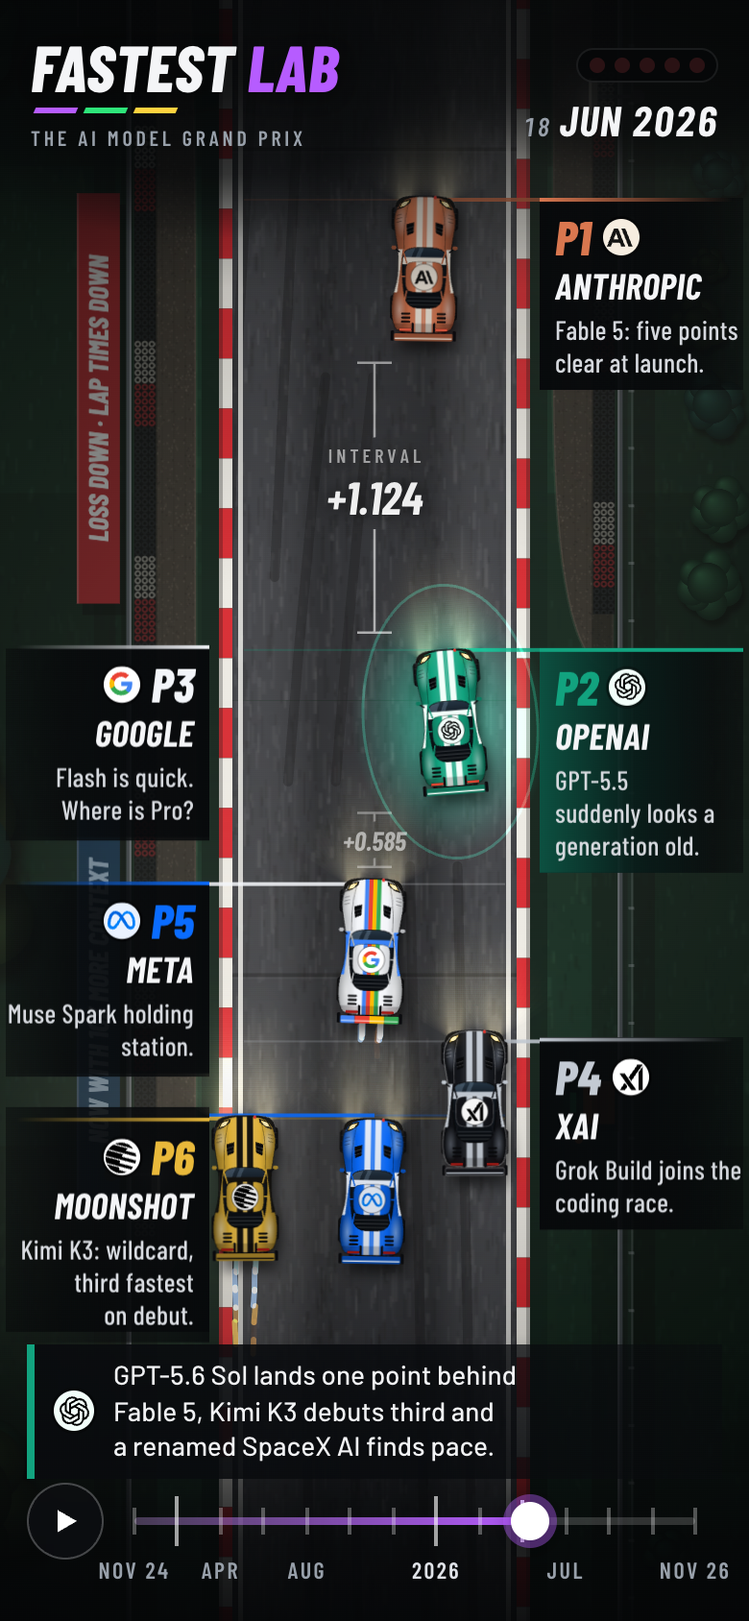
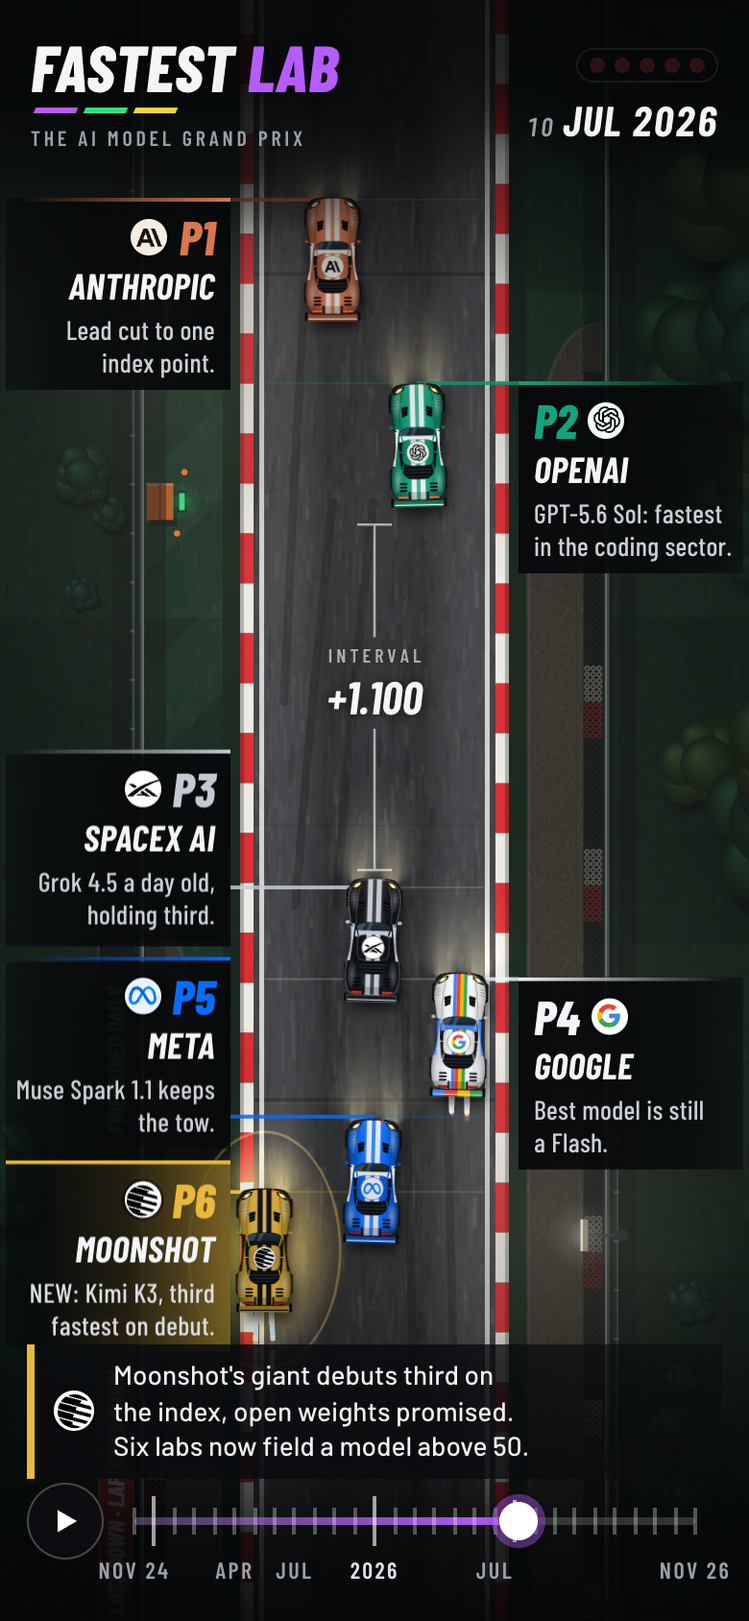
Replay the two years as 29 events (research/events.txt)
The SNAPSHOTS table is now ../research/events.txt, pasted in verbatim: an
opening state, 27 model releases, and the owner's closing standings, each
with its @lab and caption. Sources are in ../research/events.md. The
closing standings (2026-11-20) are unchanged.

A full replay is now about 83 s (28 steps of 2.5 to 3.0 s, plus lights
and launch).

Cars are about 20% smaller than with the quarterly snapshots (70 px long
at 1440x900, 64 px at 390x844): the 2025-07-09 entry packs four cars into
0.50 s, and the tightest four-car pack on the timeline sets the car size.
Noted in .memory/MEMORY.md together with the one-number fix.

Verified in headless Chrome with index.html alone, 1440x900 and 390x844,
every frame of a full replay, hard scrubbing and replays cut short:
0 console errors, 0 overlaps of the rotated car boxes, 3 abreast at most,
least clearance 7.8 px / 6.8 px (0.11 car lengths), 60 fps. The drive plan
is clean at nine screen sizes. Screenshots refreshed.

diff --git a/index.html b/index.html
@@ -273,104 +273,175 @@
 
 var SNAPSHOTS = `
 
-# Two years of standings, November 2024 to November 2026. The reasoning and
-# the sources behind every snapshot are in research/standings-history.md.
+# FASTEST LAB · the replay as events, November 2024 to November 2026.
+# Drop-in replacement for the SNAPSHOTS text table (paste between the backticks).
+# The reasoning and sources for every event are in research/events.md.
+#
+# Same format as the snapshot table, plus two additions for the v2 page:
+#   @lab at the end of a date line   the lab whose event this is (car to highlight)
+#   > caption                        one line: what happened and why it moved the field
+#
+# 29 entries: an opening state, 27 events, and the owner's closing standings.
 # Scale: +0.25 is wheel to wheel, +1.00 a clear lead, +1.70 a big break.
+# Every date is unique on purpose: the page skips a second entry on the same date.
 #
-# Guest cars: an outsider lab drives for as long as it was genuinely top
-# five. DeepSeek (R1) runs February to June 2025, Moonshot (Kimi K3) July
-# to September 2026. Each took its place inside an existing gap, so the
-# cars around it are exactly as far from the leader as the research says.
-#
-# The @lab and the > caption on each snapshot are placeholders, written from
-# the headlines, until the event-by-event replay replaces this table.
+# Guest cars: DeepSeek drives from R1 (Jan 2025) until GPT-5 (Aug 2025);
+# Moonshot from Kimi K3 (Jul 2026) until Gemini 4 Argon (Sep 2026).
 
-# o1-preview era; Claude 3.5 Sonnet (new) is the coders' pick; Gemini still experimental
+# Opening state. o1-preview, Claude 3.5 Sonnet (new), experimental Geminis, Llama 3.2, Grok 2
 2024-11-20  OpenAI's race to lose
   > Where it stood: o1-preview on pole, Claude 3.5 Sonnet the coders' pick, Gemini still experimental.
-  openai                o1 on pole, the field regrouping.
+  openai                o1-preview on pole, the field regrouping.
   anthropic   +0.40     The coders' car of choice.
   google      +0.45     Experimental Geminis trading fastest laps.
   meta        +1.30     Best of the open-weights class.
   spacexai    +0.35     Grok 2: still learning the circuit.
 
-# DeepSeek R1 (Jan 20), Grok 3 (Feb 17), Claude 3.7 Sonnet + Claude Code (Feb 24), GPT-4.5 (Feb 27)
-2025-02-28  Grok 3 gatecrashes the front  @spacexai
-  > Grok 3 is the first model past 1400 on LMArena. DeepSeek's R1 and Claude 3.7 Sonnet land the same winter.
-  openai                Deep Research, o3-mini, GPT-4.5. Still ahead.
+# DeepSeek R1 (Jan 20). Since the opening: o1 and o1 pro (Dec 5), o3 preview (Dec 20), Gemini 2.0 Flash (Dec 11)
+2025-01-20  DeepSeek shocks the paddock  @deepseek
+  > R1 matches o1 for pennies. Within a week it tops the App Store and Nvidia drops 17%.
+  openai                o1 pro out, o3 previewed. Lead grows.
+  anthropic   +0.50     Still on 3.5 Sonnet. No reasoning model.
+  google      +0.30     Gemini 2.0 Flash: quick and cheap.
+  deepseek    +0.25     NEW: R1, o1-level, open weights.
+  meta        +1.15     Llama 3.3. No longer the open-weights king.
+  spacexai    +0.35     Grok 2, waiting on Grok 3.
+
+# Grok 3 (Feb 17). Also since R1: o3-mini (Jan 31), Deep Research (Feb 2), Gemini 2.0 Pro (Feb 5)
+2025-02-17  Grok 3 gatecrashes the front  @spacexai
+  > First model past 1400 on LMArena. xAI goes from last to Google's gearbox in one release.
+  openai                o3-mini and Deep Research. Still ahead.
+  anthropic   +0.55     Sonnet 3.5 showing its age.
+  google      +0.15     Gemini 2.0 Pro: quick, not quickest.
+  spacexai    +0.15     Grok 3 comes from nowhere.
+  deepseek    +0.35     R1: still the paddock's talking point.
+  meta        +1.30     Passed by two cars in a month.
+
+# Claude 3.7 Sonnet + Claude Code research preview (Feb 24). GPT-4.5 follows on Feb 27
+2025-02-24  Claude 3.7 brings Claude Code  @anthropic
+  > The first hybrid reasoning model, plus a terminal agent nobody yet knows will matter this much.
+  openai                Lead intact. GPT-4.5 lands in three days.
   anthropic   +0.35     Sonnet 3.7 arrives with Claude Code.
   google      +0.30     Gemini 2.0: quick, not quickest.
-  spacexai    +0.15     Grok 3 comes from nowhere.
-  deepseek    +0.40     Wildcard R1 knocks 17% off Nvidia in a day.
-  meta        +1.30     Overtaken by wildcard entry DeepSeek.
+  spacexai    +0.15     Grok 3, one week old and holding.
+  deepseek    +0.40     R1 still ahead of every Llama.
+  meta        +1.30     Llama 3.3. Llama 4 promised.
 
-# Gemini 2.5 Pro (Mar 25) debuts #1 on LMArena by ~40 points; Llama 4 (Apr 5) benchmark row; o3 lands Apr 16
-2025-04-10  Gemini 2.5 takes pole  @google
+# Gemini 2.5 Pro Experimental (Mar 25); GPT-4o image generation ships the same day
+2025-03-25  Gemini 2.5 takes pole  @google
   > Gemini 2.5 Pro debuts 40 Elo clear on LMArena. Google's first undisputed best model.
   google                Gemini 2.5 Pro. Forty Elo clear.
-  openai      +0.20     Ghibli goes viral; o3 still garaged.
+  openai      +0.20     Ghibli images go viral. o3 still garaged.
   anthropic   +0.30     Sonnet 3.7 keeps the coders loyal.
   spacexai    +0.45     Grok 3 hangs on to the pack.
-  deepseek    +0.70     No upgrades, still quicker than Llama 4.
+  deepseek    +0.65     No upgrades since January.
+  meta        +1.00     Llama 4 is days away.
+
+# Llama 4 Scout and Maverick (Apr 5) and the LMArena "experimental version" row
+2025-04-05  Llama 4 stumbles  @meta
+  > Meta's Arena score came from an unreleased tuned variant. The public Llama 4 ranks 32nd.
+  google                Gemini 2.5 Pro still on pole.
+  openai      +0.20     o3 eleven days out.
+  anthropic   +0.30     Sonnet 3.7 and Claude Code.
+  spacexai    +0.45     Grok 3 holding fourth.
+  deepseek    +0.70     Still quicker than Llama 4.
   meta        +1.20     Llama 4: stewards reviewing those benchmarks.
 
-# o3 / o3-pro, Gemini 2.5 Pro + Veo 3 at I/O, Claude 4 (May 22), R1 refresh (May 28); Meta delays Behemoth
-2025-06-10  Three abreast into summer  @anthropic
-  > Claude 4 tops the coding benchmarks, o3-pro ships, Google I/O adds Veo 3. Three abreast at the front.
-  openai                o3-pro, by a front wing.
+# o3 and o4-mini (Apr 16)
+2025-04-16  o3 puts OpenAI back in front  @openai
+  > o3 and o4-mini ship four months after the preview. Reasoning models that use tools retake the lead.
+  openai                o3 and o4-mini: back in front.
+  google      +0.15     2.5 Pro loses pole, not pace.
+  anthropic   +0.35     Waiting on Claude 4.
+  spacexai    +0.50     Grok 3 starts to fade.
+  deepseek    +0.60     R1 at three months old.
+  meta        +1.30     Behemoth nowhere to be seen.
+
+# Claude Opus 4 and Sonnet 4, Claude Code GA (May 22). Google I/O two days earlier: 2.5 Pro, Veo 3
+2025-05-22  Claude 4: three abreast  @anthropic
+  > Opus 4 and Sonnet 4 lead SWE-bench; Claude Code goes GA. Three abreast at the front.
+  openai                o3 ahead by a front wing.
   google      +0.15     I/O upgrades: 2.5 Pro and Veo 3.
   anthropic   +0.15     Claude 4 tops the coding sector.
   spacexai    +0.90     Waiting on the Grok 4 upgrade.
   deepseek    +0.55     A one-car team, still in the points.
   meta        +1.35     Behemoth delayed. Chequebook out.
 
-# Grok 4 (Jul 9) tops the AA index for a month; GPT-5 (Aug 7) takes it back despite a rough launch
-2025-08-10  GPT-5: bumpy but ahead  @openai
-  > GPT-5 takes the top spot back from Grok 4, then a user revolt over retired models forces a partial retreat.
+# Grok 4 and Grok 4 Heavy (Jul 9): 73 on Artificial Analysis, ahead of o3-pro (71) and Gemini 2.5 Pro (70)
+2025-07-09  Grok 4 tops the index  @spacexai
+  > Grok 4 scores 73 on Artificial Analysis, ahead of o3 and Gemini 2.5 Pro. xAI's first time on top.
+  openai                o3-pro leads on breadth, not benchmarks.
+  google      +0.15     2.5 Pro: level with o3.
+  anthropic   +0.15     Opus 4: behind on index, ahead on code.
+  spacexai    +0.20     Grok 4: fastest single lap in the field.
+  deepseek    +1.20     R1 refresh can't hold this pace.
+  meta        +1.50     Signing drivers, not setting laps.
+
+# GPT-5 (Aug 7). Two days earlier: Claude Opus 4.1 and Genie 3. DeepSeek leaves the track here
+2025-08-07  GPT-5: bumpy but ahead  @openai
+  > GPT-5 retakes the top spot, then a user revolt over retired models forces a partial retreat.
   openai                Rough launch, still fastest.
   anthropic   +0.30     Opus 4.1 and a Claude Code boom.
   google      +0.10     Genie 3 dazzles; 2.5 Pro ages.
-  spacexai    +0.25     Grok 4 led the index in July.
-  meta        +2.60     Signing drivers, not setting laps.
+  spacexai    +0.25     Grok 4 led the index for a month.
+  meta        +2.60     Superintelligence lab founded, nothing shipped.
 
-# Claude Sonnet 4.5 (Sep 29), Sora 2 (Sep 30), Nano Banana (Aug 26)
-2025-10-01  The coding war  @anthropic
-  > Claude Sonnet 4.5 hits 77% on SWE-bench Verified, a day before Sora 2. The fight is now about coding agents.
-  openai                GPT-5 on top; Sora 2 lands.
-  anthropic   +0.20     Sonnet 4.5: 77% on SWE-bench.
-  google      +0.25     Nano Banana wins the crowd.
-  spacexai    +0.50     Fast and cheap, drifting back.
-  meta        +2.60     Still in the garage.
-
-# Gemini 3 Pro (Nov 18), Claude Opus 4.5 (Nov 24), OpenAI "code red" memo (Dec 2)
-2025-12-03  Code red at OpenAI  @google
-  > Gemini 3 Pro sweeps the leaderboards, Opus 4.5 passes 80% on SWE-bench, and OpenAI declares a code red.
+# Gemini 3 Pro (Nov 18). Since GPT-5: Sonnet 4.5 (Sep 29), Sora 2 (Sep 30), GPT-5.1 (Nov 12), Grok 4.1 (Nov 17)
+2025-11-18  Gemini 3 takes pole  @google
+  > Gemini 3 Pro debuts three points clear on the index and sweeps LMArena. Google leads again.
   google                Gemini 3 Pro tops the timing screens.
+  openai      +0.30     GPT-5.1, a week old, already passed.
+  anthropic   +0.15     Sonnet 4.5 strong on code. Opus due.
+  spacexai    +0.75     Grok 4.1 can't follow the leaders.
+  meta        +2.40     Seven months since Llama 4.
+
+# Claude Opus 4.5 (Nov 24). OpenAI's "code red" memo follows on Dec 2
+2025-11-24  Opus 4.5 answers in six days  @anthropic
+  > First model past 80% on SWE-bench Verified. Eight days later OpenAI declares a code red.
+  google                Gemini 3 Pro and Nano Banana Pro.
   anthropic   +0.20     Opus 4.5 breaks 80% on SWE-bench.
-  openai      +0.20     Code red on the pit wall.
-  spacexai    +0.90     Grok 4.1 can't follow the leaders.
+  openai      +0.20     Third for the first time. Code red follows.
+  spacexai    +0.90     Grok 4.1 losing touch.
   meta        +2.40     LeCun leaves the team.
 
-# Claude Code's holiday breakout, Opus 4.6 + GPT-5.3-Codex (Feb 5), Gemini 3.1 Pro (Feb 19)
-2026-02-20  Claude Code fever  @anthropic
-  > Opus 4.6 takes the lead after a winter of Claude Code mania. Gemini 3.1 Pro tops the index, not the mindshare.
-  anthropic             Opus 4.6 and a Claude Code craze.
-  google      +0.15     Gemini 3.1 Pro tops the index.
-  openai      +0.15     GPT-5.3-Codex launched minutes after Opus.
-  spacexai    +1.40     New owner SpaceX, same pace.
+# Claude Opus 4.6 and GPT-5.3-Codex (both Feb 5), after Claude Code's holiday breakout. GPT-5.2 was Dec 11
+2026-02-05  Claude Code fever  @anthropic
+  > Opus 4.6 tops the index after a winter of Claude Code mania. GPT-5.3-Codex launches minutes later.
+  anthropic             First lead ever: Opus 4.6, Claude Code.
+  openai      +0.20     GPT-5.3-Codex, launched minutes after Opus.
+  google      +0.15     Gemini 3 Pro, now three months old.
+  spacexai    +1.35     New owner SpaceX, same pace.
   meta        +2.10     Ten months since Llama 4.
 
-# GPT-5.5 (Apr 23) tops the index by 3; Opus 4.7 backlash; Mythos Preview restricted; Muse Spark (Apr 8)
-2026-04-24  GPT-5.5 strikes back  @openai
-  > GPT-5.5 goes three points clear, a week after Opus 4.7 annoyed developers. Meta's Muse Spark joins the top five.
+# Gemini 3.1 Pro (Feb 19): 57 on Artificial Analysis, four clear of Opus 4.6
+2026-02-19  Gemini 3.1 Pro tops the index  @google
+  > Four points clear on Artificial Analysis at under half the price. Google passes OpenAI; Claude Code keeps Anthropic ahead.
+  anthropic             Outscored, still the one developers pick.
+  google      +0.15     Gemini 3.1 Pro tops the index.
+  openai      +0.15     GPT-5.2 and Codex, shuffled to third.
+  spacexai    +1.40     Grok 4.20 scores 48.
+  meta        +2.10     Still silent.
+
+# Muse Spark (Apr 8). Also since February: GPT-5.4 (Mar 5), Claude Mythos Preview, partners only (Apr 7)
+2026-04-08  Meta is back  @meta
+  > Muse Spark, Meta's first closed model, lands inside the index top five. Goodbye Llama.
+  anthropic             Mythos Preview is partners-only. Opus 4.6 leads.
+  google      +0.15     Gemini 3.1 Pro, co-fastest on the index.
+  openai      +0.10     GPT-5.4 drew level with Gemini.
+  meta        +1.35     Muse Spark: from nowhere to fourth.
+  spacexai    +0.20     Mugged by a Meta comeback.
+
+# GPT-5.5 and GPT-5.5 Pro (Apr 23). Claude Opus 4.7 was Apr 16
+2026-04-23  GPT-5.5 strikes back  @openai
+  > GPT-5.5 goes three points clear, a week after Opus 4.7 annoyed developers with overeager safeguards.
   openai                GPT-5.5 goes three points clear.
   anthropic   +0.25     Mythos locked away; Opus 4.7 grumbles.
   google      +0.30     Gemini 3.1 Pro still in touch.
-  meta        +1.20     Muse Spark: straight into the top five.
-  spacexai    +0.15     Mugged by a Meta comeback.
+  meta        +1.20     Muse Spark holds fourth.
+  spacexai    +0.15     Grok 4.3 stays on Meta's bumper.
 
-# Claude Fable 5 (Jun 9) launches ~5 index points clear of every other lab
-2026-06-10  Fable 5 rewrites the board  @anthropic
+# Claude Fable 5 (Jun 9). Opus 4.8 was May 28; Google I/O brought Gemini 3.5 Flash, no Pro
+2026-06-09  Fable 5 rewrites the board  @anthropic
   > Fable 5 launches five index points clear of every other lab. The biggest one-day swing in this replay.
   anthropic             Fable 5: five points clear at launch.
   openai      +1.30     GPT-5.5 suddenly looks a generation old.
@@ -378,36 +449,110 @@ var SNAPSHOTS = `
   meta        +0.60     Muse Spark holding station.
   spacexai    +0.15     Grok Build joins the coding race.
 
-# GPT-5.6 Sol (Jul 9), SpaceX AI rebrand + Grok 4.5 (Jul 6-8), Kimi K3 (Jul 16), Opus 5 (Jul 24); Google ships Flash only
-2026-07-25  The pack closes in  @openai
-  > GPT-5.6 Sol lands one point behind Fable 5, Kimi K3 debuts third and a renamed SpaceX AI finds pace.
-  anthropic             Fable back from its red flag.
-  openai      +0.45     GPT-5.6 Sol: one point off the lead.
-  moonshot    +0.50     Kimi K3: wildcard, third fastest on debut.
-  spacexai    +0.50     New name, new pace: Grok 4.5.
-  google      +0.10     Three new Flashes, still no Pro.
-  meta        +0.25     Muse Spark 1.1 keeps the tow.
+# Fable 5 and Mythos 5 disabled for all customers after a Commerce Department directive (Jun 12)
+2026-06-12  Red flag for Fable 5  @anthropic
+  > A Commerce Department order pulls Fable 5 offline three days after launch. Opus 4.8 holds the lead alone.
+  anthropic             Fable garaged by order. Opus 4.8 leads.
+  openai      +0.30     GPT-5.5 back within striking distance.
+  google      +0.45     Gap halves without a new part.
+  meta        +0.60     Closer by default.
+  spacexai    +0.15     Grok 4.3, same story.
 
-# Fable 5.1 (Sep 1), Muse Spark 1.3 (Sep 2), GPT-6 Astra (Sep 3-4); Google at its low point
-2026-09-10  GPT-6 arrives  @openai
-  > GPT-6 Astra draws level on coding, but Fable 5.1 keeps Anthropic's nose ahead. Muse Spark 1.3 puts Meta third.
-  anthropic             Fable 5.1 keeps its nose ahead.
-  openai      +0.30     GPT-6 Astra: level on coding.
-  meta        +1.10     Muse Spark 1.3: best of the rest.
-  spacexai    +0.20     Grok 4.6 matched GPT-5.6. Briefly.
-  moonshot    +0.10     Kimi K3 keeps Google in its mirrors.
+# Grok 4.5 (Jul 8), two days after the xAI to SpaceX AI rebrand. Fable 5 access came back on Jul 1
+2026-07-08  SpaceX AI finds pace  @spacexai
+  > Two days after xAI becomes SpaceX AI, Grok 4.5 places fourth on the index, ahead of every Gemini.
+  anthropic             Fable 5 back on track since July.
+  openai      +1.30     GPT-5.6 Sol held back for review.
+  spacexai    +0.20     New name, new pace: Grok 4.5.
+  google      +0.20     Passed by a Grok. Still no Pro.
+  meta        +0.60     Muse Spark, three months without an upgrade.
+
+# GPT-5.6 Sol, Terra and Luna (Jul 9). Muse Spark 1.1 the same week
+2026-07-09  GPT-5.6 Sol closes the gap  @openai
+  > Released after a government review, Sol lands one point behind Fable 5 and leads the coding-agent index.
+  anthropic             Lead cut to one index point.
+  openai      +0.40     GPT-5.6 Sol: fastest in the coding sector.
+  spacexai    +1.10     Grok 4.5 a day old, holding third.
+  google      +0.20     Best model is still a Flash.
+  meta        +0.30     Muse Spark 1.1 keeps the tow.
+
+# Kimi K3 (Jul 16): 57 on Artificial Analysis, third overall. Moonshot joins as a guest car
+2026-07-16  Kimi K3 crashes the party  @moonshot
+  > Moonshot's giant debuts third on the index, open weights promised. Six labs now field a model above 50.
+  anthropic             Fable 5 leads; Opus 5 is next.
+  openai      +0.40     GPT-5.6 Sol: one point off the lead.
+  moonshot    +0.50     NEW: Kimi K3, third fastest on debut.
+  spacexai    +0.60     Grok 4.5 loses third after a week.
+  google      +0.20     No model above 50. Still no Pro.
+  meta        +0.30     Muse Spark 1.1 brings up the rear.
+
+# Muse Spark 1.3 (Sep 2). Since July: Opus 5 (Jul 24), Muse Spark 1.2 + Muse Code (Aug 5), Grok 4.6 (Aug 12), Fable 5.1 (Sep 1)
+2026-09-02  Meta onto the podium  @meta
+  > Muse Spark 1.3 scores 62, behind only two Claudes. A day earlier, Fable 5.1 stretched Anthropic's lead.
+  anthropic             Fable 5.1 tops the index at 66.
+  openai      +0.90     GPT-5.6 Sol, five points adrift.
+  meta        +0.50     Muse Spark 1.3: best of the rest.
+  spacexai    +0.20     Grok 4.6 matched Sol in August.
+  moonshot    +0.10     Kimi K3 still ahead of Google.
   google      +0.15     Seven months without a Pro.
 
-# Opus 5.5 (Sep 22), Gemini 4 Argon (Sep 30, GA Oct 13), Muse Wonder (Oct 12), Grok 4.7 (Sep 21)
-2026-10-15  Gemini 4 rejoins the fight  @google
-  > Gemini 4 Argon ties GPT-6 Astra for less money. Google goes from last to third; Kimi is squeezed out.
+# GPT-6 Astra (Sep 3); Artificial Analysis overhauls its index (v4.2) within the week
+2026-09-03  GPT-6 arrives  @openai
+  > OpenAI declares the AGI era. Astra opens level with Sol, then matches Fable 5.1 after an index overhaul.
+  anthropic             Fable 5.1 keeps its nose ahead.
+  openai      +0.30     GPT-6 Astra: level on coding.
+  meta        +1.10     Muse Spark 1.3 holds third.
+  spacexai    +0.20     Grok 4.6. Grok 5 keeps slipping.
+  moonshot    +0.10     Kimi K3 keeps Google in its mirrors.
+  google      +0.15     Last, for the only time.
+
+# Claude Opus 5.5 (Sep 22): 58, five clear of GPT-6 Astra and Fable 5.1. Grok 4.7 was Sep 21
+2026-09-22  Opus 5.5 pulls away  @anthropic
+  > Opus 5.5 scores 58, five clear of GPT-6 Astra and of Anthropic's own Fable 5.1.
   anthropic             Opus 5.5: fastest by several points.
   openai      +0.85     GPT-6 fast, but not Opus fast.
-  google      +0.45     Gemini 4 Argon: back on the podium.
-  meta        +0.55     Muse Wonder stuns the timing screens.
-  spacexai    +0.60     Grok 4.7 in. Grok 5 missing.
+  meta        +1.05     Muse Spark 1.3, still third.
+  spacexai    +0.30     Grok 4.7 finds two points.
+  moonshot    +0.10     Kimi K3 hanging on.
+  google      +0.15     Gemini 4 is eight days away.
 
-# The real one: the owner's take, November 2026.
+# Gemini 4 Argon (announced Sep 30, GA Oct 13): 53, level with GPT-6 Astra. Moonshot leaves the track here
+2026-09-30  Gemini 4 rejoins the fight  @google
+  > Gemini 4 Argon ties GPT-6 Astra for less money. Google goes from last to third; Kimi is squeezed out.
+  anthropic             Opus 5.5 and Sonnet 5.5 lead.
+  openai      +0.85     Astra matched by a Gemini.
+  google      +0.45     Gemini 4 Argon: back on the podium.
+  meta        +0.65     Bumped to fourth. Muse Wonder next.
+  spacexai    +0.35     Grok 4.7 in. Grok 5 missing.
+
+# Muse Wonder and Muse Wonder Full (Oct 12): Wonder Full 56, ahead of GPT-6 Astra; not on the API
+2026-10-12  Muse Wonder stuns the timing screens  @meta
+  > Wonder Full outscores GPT-6 Astra and ties for first on coding agents. But it's not on the API.
+  anthropic             Opus 5.5 still the benchmark.
+  openai      +0.85     Sol and Luna fill out the GPT-6 range.
+  google      +0.45     Argon goes GA tomorrow.
+  meta        +0.30     Muse Wonder: Meta's best lap ever.
+  spacexai    +0.80     Dropped by the pack.
+
+# Gemini 4 Carbon (Oct 28, limited access), a day after Artificial Analysis Intelligence Index v5
+2026-10-28  Gemini 4 Carbon tops the board  @google
+  > Carbon tops the rebuilt index and the Arena. It's partners-only, so Anthropic keeps the lead. Just.
+  anthropic             Outscored on paper. Opus 5.5 leads on track.
+  google      +0.40     Carbon: top of the board, limited access.
+  openai      +0.30     Astra re-rated upward, passed anyway.
+  meta        +1.35     New index is unkind to Wonder.
+  spacexai    +0.45     Grok 4.7 fading.
+
+# Claude Fable 5.2 and Mythos 5.2 (Nov 9): 65 on the index, Carbon 60, GPT-6 Astra 57
+2026-11-09  Fable 5.2 restores order  @anthropic
+  > Fable 5.2 takes the top score back from Carbon, with a 20% price cut for good measure.
+  anthropic             Fable 5.2: five points clear again.
+  google      +1.25     Carbon: second, and still partners-only.
+  openai      +0.20     Astra now eight points back.
+  meta        +1.50     Muse Wonder can't see the leaders.
+  spacexai    +0.30     Grok 4.7. Close behind Meta.
+
+# Closing state: the owner's take, November 2026, unchanged. GPT-6.2 (Nov 17) and Gemini 4 Neon (Nov 18) lead into it
 2026-11-20  Clear air up front
   > GPT-6.2 and Gemini 4 Neon land a day apart. OpenAI is second again; Fable stays out of reach.
   anthropic             Clear leader.

diff --git a/.memory/MEMORY.md b/.memory/MEMORY.md
@@ -13,9 +13,12 @@
 - **How the wobble stays safe:** `elbowRoom()` cuts every car's drift, surge and nose turn pair by pair so that two cars leaning towards each other at once still leave `clearance`. It depends only on where the plan puts the cars, so raising `wobble` or `pace` can never make cars touch; it only changes how lively free cars look. `fastestLab.check()` reports `worst` (least room over the whole timeline with the wobble at its worst) next to `clearance`; `ok: true` needs `worst >= clearance` and `tight: 0`.
 - **Timeline marks in events mode:** dates under the rail are placed by priority and only where they fit: the two ends ("NOV 24"), then the year where one begins ("2025"), then the month where a quarter begins ("APR"). A year label right next to an end label is dropped; that is expected.
 - **How the cars move (the drive plan):** nothing is simulated while it plays. `buildDrive()` works out, per screen size, a seat for every car at every snapshot and a path for every step between snapshots; a car's position is a pure function of the timeline position. The rule that makes "never more than three abreast" structural: two cars closer than a car length + noseGap along the road are at least a car width + sideGap apart across it, and the road is only three such lanes wide. The tightest four-car pack on the timeline caps the car size. Steps are planned in the background a few ms at a time (about 1 s in all on a laptop). `fastestLab.check()` in the console forces and measures every step; `ok: true` and `tight: 0` everywhere is the pass. New snapshots that pack four cars very closely make all cars smaller; a step that can't be driven cleanly is named in a console warning. The seats are chosen starting from the grid, so the launch never asks two cars that stay alongside to swap sides.
+- **What sets the car size with the events data:** the 2025-07-09 entry puts four cars within 0.50 s (OpenAI, Google +0.15, Anthropic +0.15, xAI +0.20). That one pack makes every car about 20% smaller on the whole timeline (70 px long at 1440x900; the next tightest entry would allow 87). Opening it up a little, e.g. xAI +0.35, gives the size back. It is the research data's call, so it was left as delivered.
 - **Logo boxes:** a LOGOS `box` is what gets centred and scaled into the roundel, and the roundel clips. The SpaceX AI box covers only the "XA", so its swoosh tail runs off the disc on purpose.
 - **Background material** is in the parent folder ../:
   - BRIEF.md: the concept
-  - research/standings-history.md: sources and judgement calls behind each snapshot
+  - research/events.txt: the SNAPSHOTS table as it is in index.html since v2, 29 entries (an opening state, 27 model-release events, the owner's closing standings). Pasted in verbatim; to update, paste it between the backticks again.
+  - research/events.md: sources and reasoning behind each event
+  - research/standings-history.md: the same for the 14 quarterly snapshots v1 uses
   - NAMES.md: parked name research
 - **Verify headless** with Playwright `chromium.launch({channel:'chrome'})`; no bundled browsers are installed. Don't pass `--disable-frame-rate-limit`: it makes the page run at 500 fps and the fps numbers meaningless. The per-frame check reads `fastestLab.cars` (x + wx, by + wy, rot) after each animation frame and tests the rotated car boxes. Checked sizes: 1440x900 and 390x844 (plus 1920x1080, 1024x768, 844x390, 2560x1300, 360x640, 768x1024, 1280x720 for the drive plan).
